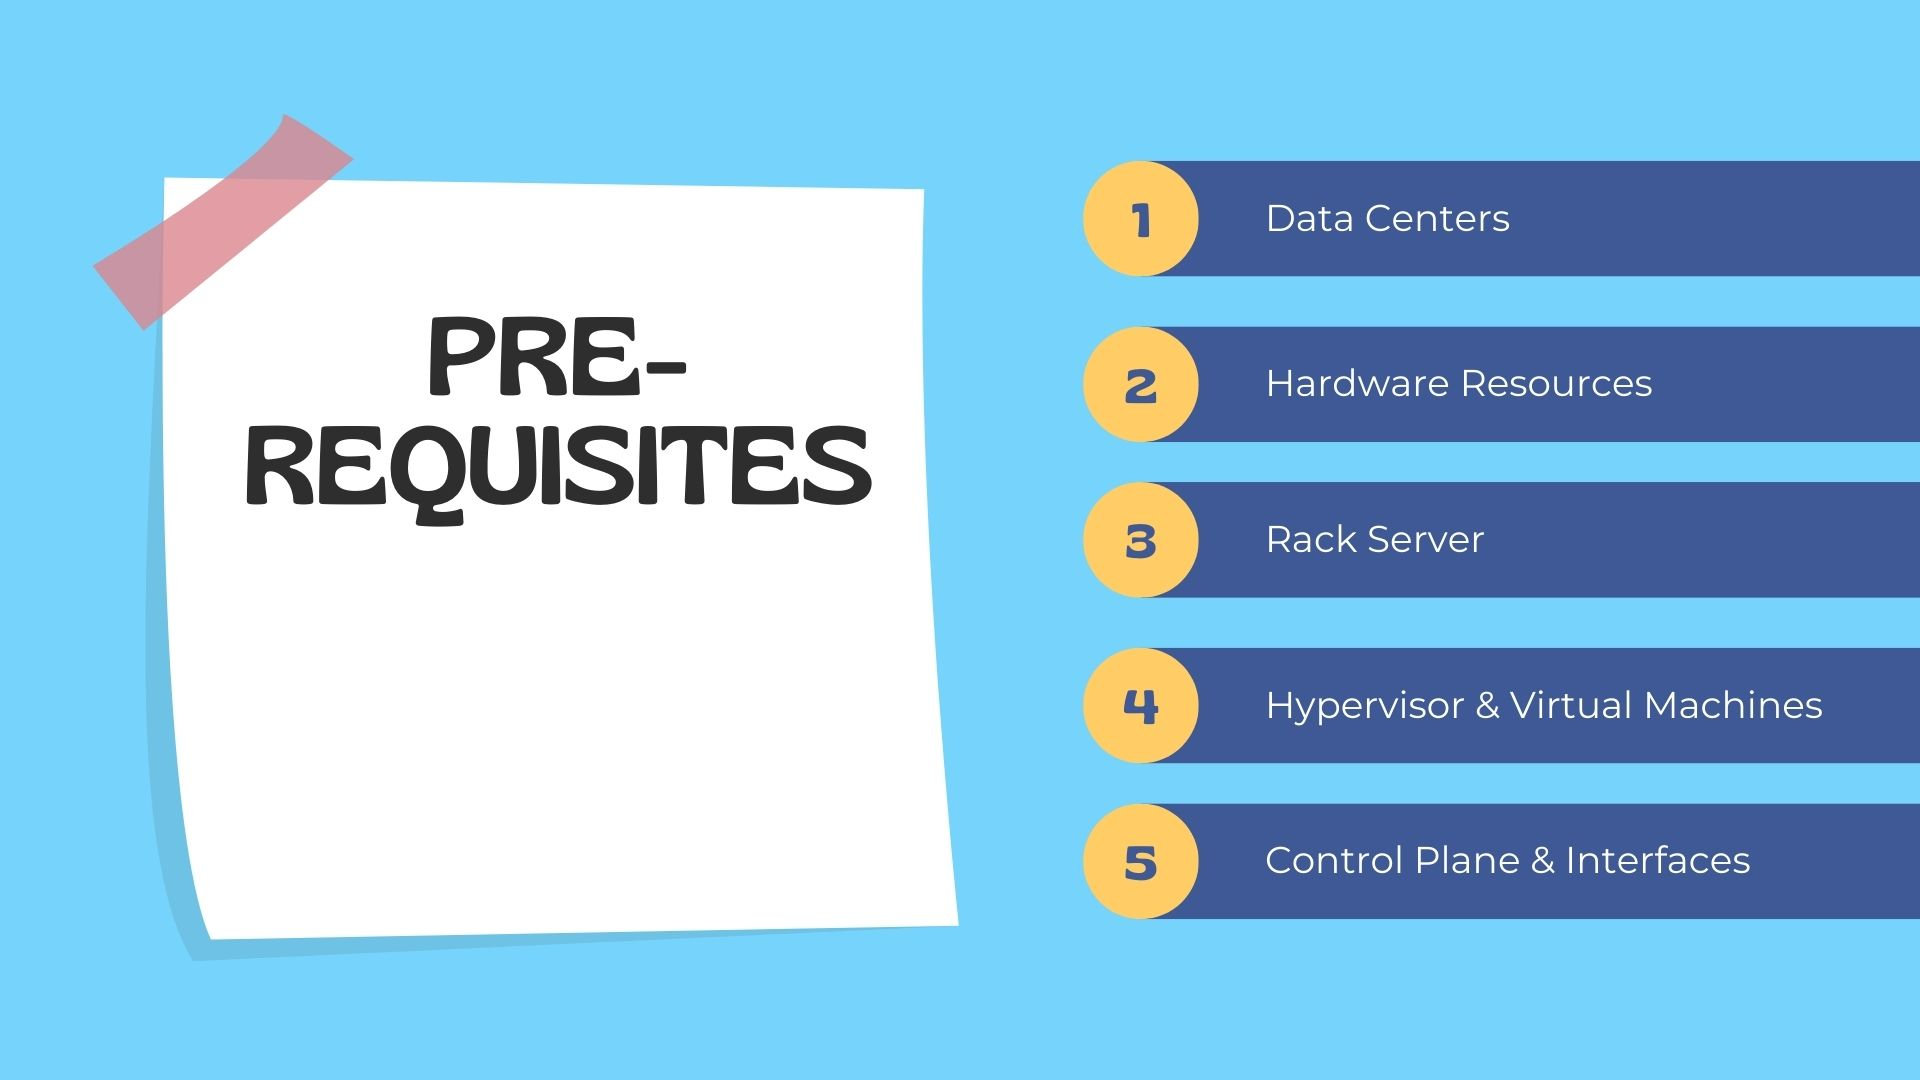
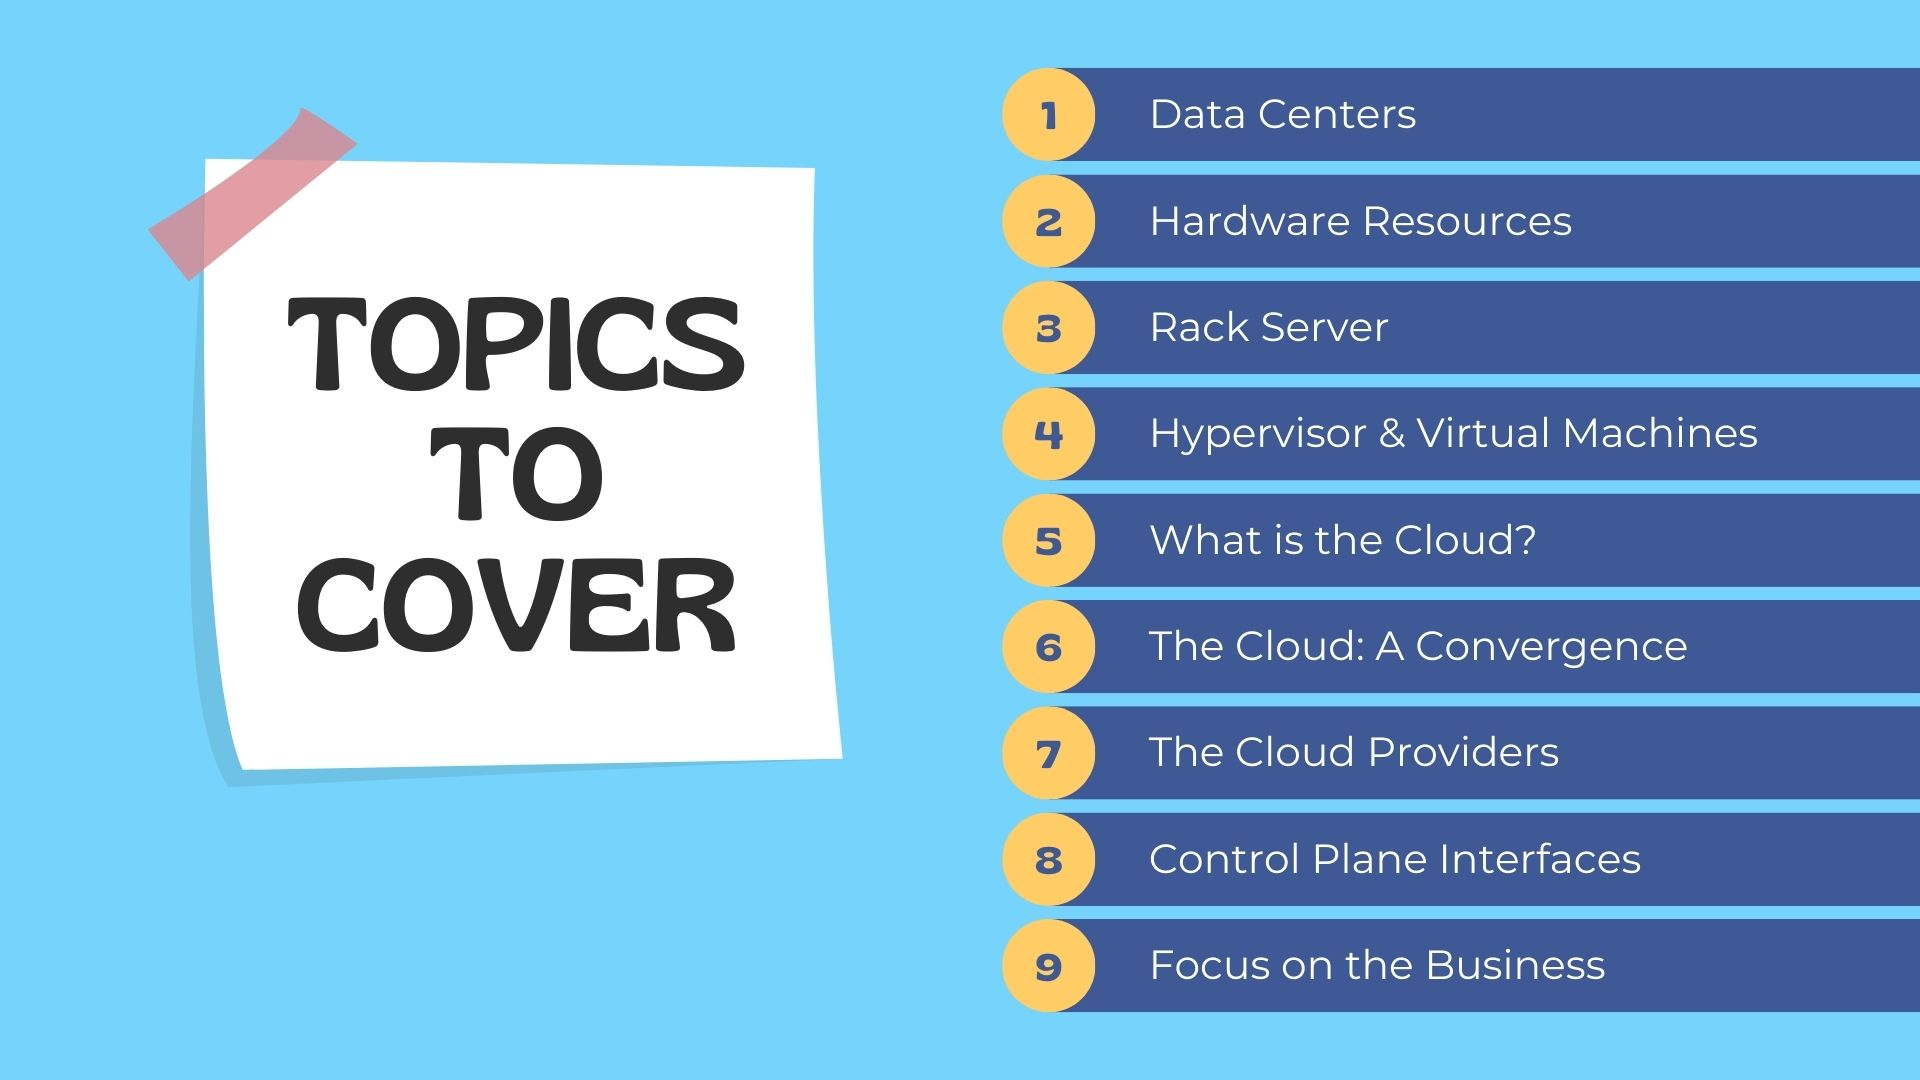
CP-CV01 updates

diff --git a/courses/CP-CV01/index.htm b/courses/CP-CV01/index.htm
@@ -75,8 +75,11 @@
             <div id="slide12" class="carousel-item" data-index="12">
               <img src="img/12.jpg" class="d-block w-100" alt="...">
             </div>
-            <!--- make this next section# 1 more than the previous one (eg. if previous is section10 the below one would be section11) -->
             <div id="slide13" class="carousel-item" data-index="13">
+              <img src="img/13.jpg" class="d-block w-100" alt="...">
+            </div>
+            <!--- make this next section# 1 more than the previous one (eg. if previous is section10 the below one would be section11) -->
+            <div id="slide14" class="carousel-item" data-index="14">
               <img src="../../img/course/tutorials/Knowledge.jpg" class="d-block w-100" alt="...">
             </div>
           </div>
@@ -116,7 +119,11 @@
               <li>Hardware Resources</li>
               <li>Rack Servers</li>
               <li>Hypervisors & Virtual Machines</li>
-              <li>Control Plane and it's Interfaces</li>
+              <li>What is the Cloud?</li>
+              <li>The Cloud - A Convergence</li>
+              <li>The Cloud Providers</li>                            
+              <li>Control Plane Interfaces</li>
+              <li>Focus on the Business</li>
             </ul>
           </section>
 
@@ -245,8 +252,10 @@
               <li>Software-defined compute: Virtualizes computing resources, providing on-demand access to processing
                 power.</li>
             </ul>
+          </section>
 
-            <b>The Cloud: A Convergence</b>
+          <section id="section9" class="learnsection">
+            <h2>The Cloud: A Convergence</h2>
             <p>The cloud combines virtualization and software-defined resources to deliver a scalable, on-demand
               computing platform. By pooling physical resources and presenting them as virtualized services, cloud
               providers can offer a wide range of computing capabilities to users.</p>
@@ -264,9 +273,35 @@
               software-defined resources. This combination enables cloud providers to offer flexible, scalable, and
               cost-effective computing services to a global audience.</p>
 
+          </section>          
+
+          <section id="section10" class="learnsection">
+            <h2>Major Cloud Providers</h2>
+
+            <p>The cloud computing market is dominated by a few major players, each offering a comprehensive suite of cloud services.</p>
+            
+            <b>Amazon Web Services (AWS)</b>
+            <p>As a pioneer in the cloud computing industry, AWS offers a wide range of services including compute, storage, databases, networking, analytics, and more. Its extensive ecosystem and global infrastructure have made it a preferred choice for businesses of all sizes.</p>
+            
+            <b>Microsoft Azure</b>
+            <p>Leveraging its strong presence in the enterprise software market, Microsoft Azure provides a hybrid cloud platform that seamlessly integrates with on-premises environments. It offers a comprehensive set of services and tools for developers and IT professionals.</p>
+            
+            <b>Google Cloud Platform (GCP)</b>
+            <p>Known for its expertise in data analytics and machine learning, Google Cloud Platform provides scalable infrastructure and a range of developer-friendly tools. It has gained significant traction in recent years.</p>
+            
+            <b>Other Notable Providers</b>
+            <p>While AWS, Azure, and GCP are the leading cloud providers, there are other notable players in the market such as:</p>
+            <ul>
+            <li>IBM Cloud</li>
+            <li>Alibaba Cloud</li>
+            <li>Oracle Cloud</li>
+            <li>Rackspace</li>
+            </ul>
+            <p>These providers offer a variety of cloud services and cater to specific market segments or geographic regions.</p>
           </section>
 
-          <section id="section9" class="learnsection">
+
+          <section id="section11" class="learnsection">
             <h2>Control Plane Interfaces</h2>
             <p>The control plane encompasses the tools and interfaces used to interact with cloud resources. It
               typically includes:</p>
@@ -320,7 +355,7 @@
 
           </section>
 
-          <section id="section10" class="learnsection">
+          <section id="section12" class="learnsection">
             <h2>Why switch to the Cloud?</h2>
             <p>Focus on running your business, rather than the technology.</p>
   
@@ -359,34 +394,7 @@
             
           </section>
 
-          <section id="section11" class="learnsection">
-            <h2>Major Cloud Providers</h2>
-
-            <p>The cloud computing market is dominated by a few major players, each offering a comprehensive suite of cloud services.</p>
-            
-            <b>Amazon Web Services (AWS)</b>
-            <p>As a pioneer in the cloud computing industry, AWS offers a wide range of services including compute, storage, databases, networking, analytics, and more. Its extensive ecosystem and global infrastructure have made it a preferred choice for businesses of all sizes.</p>
-            
-            <b>Microsoft Azure</b>
-            <p>Leveraging its strong presence in the enterprise software market, Microsoft Azure provides a hybrid cloud platform that seamlessly integrates with on-premises environments. It offers a comprehensive set of services and tools for developers and IT professionals.</p>
-            
-            <b>Google Cloud Platform (GCP)</b>
-            <p>Known for its expertise in data analytics and machine learning, Google Cloud Platform provides scalable infrastructure and a range of developer-friendly tools. It has gained significant traction in recent years.</p>
-            
-            <b>Other Notable Providers</b>
-            <p>While AWS, Azure, and GCP are the leading cloud providers, there are other notable players in the market such as:</p>
-            <ul>
-            <li>IBM Cloud</li>
-            <li>Alibaba Cloud</li>
-            <li>Oracle Cloud</li>
-            <li>Rackspace</li>
-            </ul>
-            
-            <p>These providers offer a variety of cloud services and cater to specific market segments or geographic regions.</p>
-            
-          </section>
-
-          <section id="section12" class="learnsection">
+          <section id="section13" class="learnsection">
             <h2>A Review of the Topics</h2>
 
             <b>Data Centers</b>
@@ -412,7 +420,7 @@
           </section>
 
           <!--- make this next section# 1 more than the previous one (eg. if previous is section10 the below one would be section11) -->
-          <section id="section13" class="learnsection">
+          <section id="section14" class="learnsection">
             <h2>Congratulations!</h2>
             <p>What is next for you? Let's do a knowledge check to see if you completely grasped the concepts you
               just learned.</p>
@@ -490,7 +498,7 @@
               <div class="course"> <span class="circle"></span> <span class="subject"> a) Low Profile, Multiple Storage and Dual CPU. </span> </div>
             </label>
             <label for="q3-2" class="box q3-2">
-              <div class="course"> <span class="circle"></span> <span class="subject"> b) Waterproof and stays cool naturally.. </span> </div>
+              <div class="course"> <span class="circle"></span> <span class="subject"> b) Waterproof and stays cool naturally. </span> </div>
             </label>
             <label for="q3-3" class="box q3-3">
               <div class="course"> <span class="circle"></span> <span class="subject"> c) Best for Single User Login. </span> </div>
